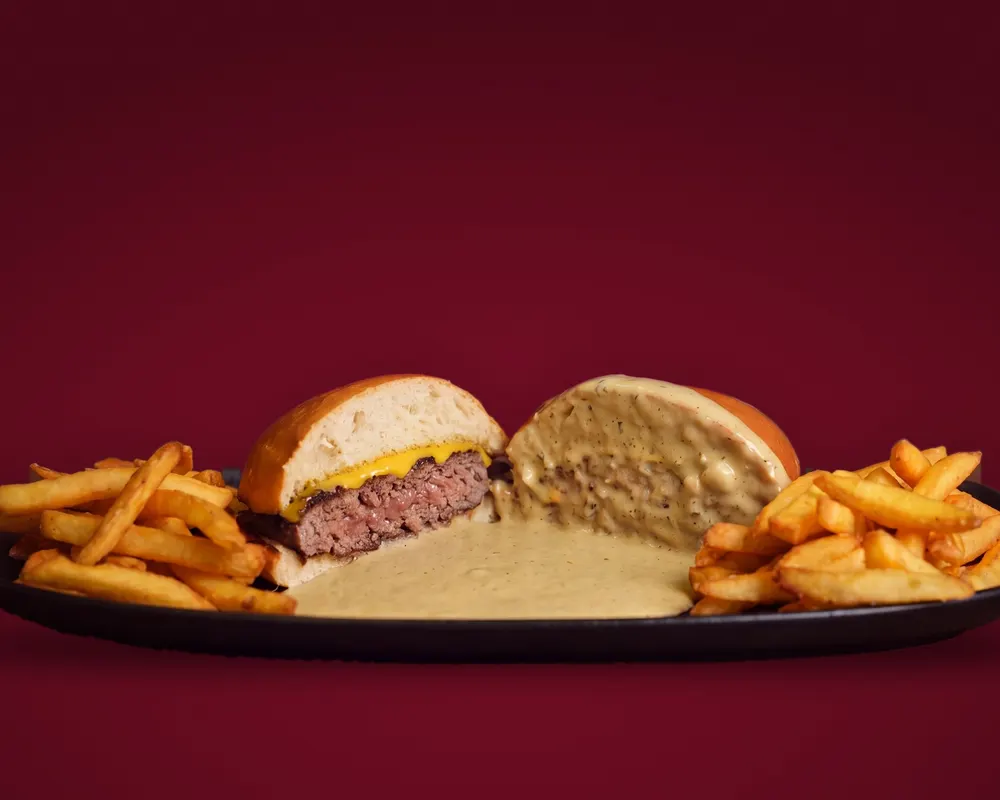
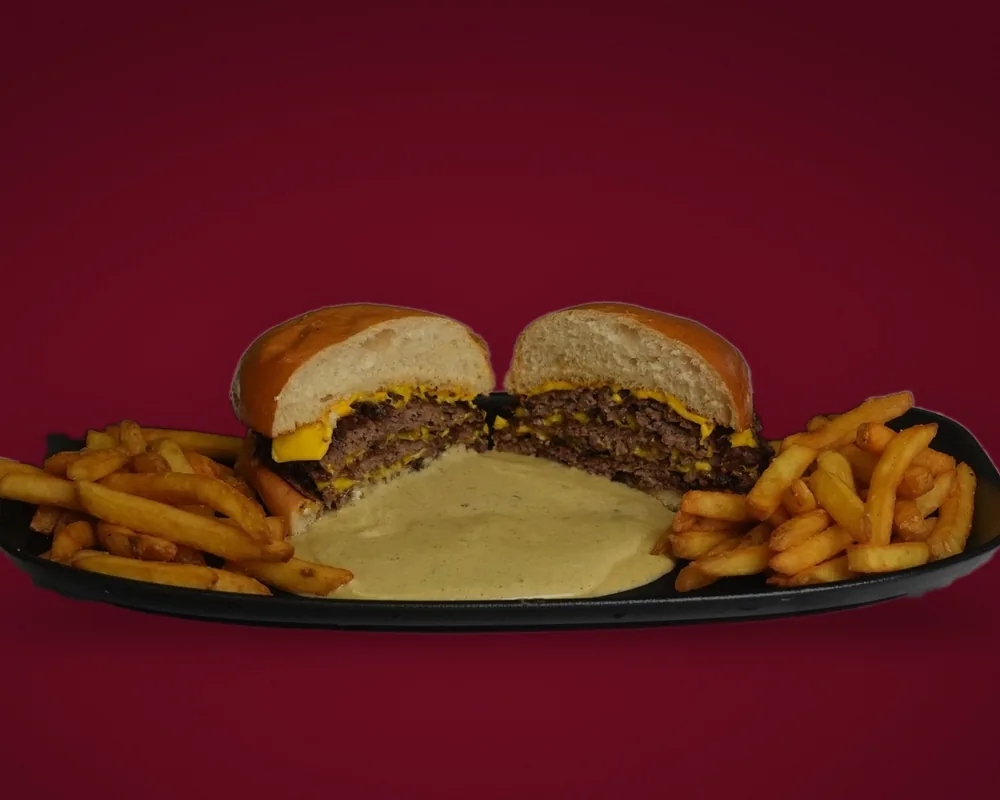
APB site-c : vraies photos du shooting sur fond bordeaux studio (#190)
* Skills : ajoute Hallmark (anti-AI slop, MIT) avec les règles Nouvelle Ardoise

Claude-Session: https://claude.ai/code/session_01GfNPGhMMwHk9JCBVJknyRy

* Démo APB : maquette d'accueil du site final, direction Brasserie claire (noindex)

Claude-Session: https://claude.ai/code/session_01GfNPGhMMwHk9JCBVJknyRy

* Démo APB site-b : ouverture sur le burger coupé dans la sauce, photos en brasserie, histoire officielle et adresses

Claude-Session: https://claude.ai/code/session_01GfNPGhMMwHk9JCBVJknyRy

* Démo APB site-b : Madrid en livraison, 3 lignes éditoriales (?edito=a|b|c), burger dégagé du texte

Claude-Session: https://claude.ai/code/session_01GfNPGhMMwHk9JCBVJknyRy

* Démo APB site-b : édito Rituel, fond Merlot, scroll image par image (63 vraies photos), barre des maisons, pop-up 200 burgers, carte smash/burgers/baguette

Claude-Session: https://claude.ai/code/session_01GfNPGhMMwHk9JCBVJknyRy

* Démo APB site-b : scroll immersif de A à Z (smash, fondu, montage, coupe, sauce), 127 vraies photos

Claude-Session: https://claude.ai/code/session_01GfNPGhMMwHk9JCBVJknyRy

* Démo APB site-b : scroll limité à la coupe (un seul cadrage) avec fondu vers la sauce

Claude-Session: https://claude.ai/code/session_01GfNPGhMMwHk9JCBVJknyRy

* Retire les images de la séquence A à Z

Claude-Session: https://claude.ai/code/session_01GfNPGhMMwHk9JCBVJknyRy

* Démo APB site-b : entrée immersive, caméra du monogramme doré en relief jusqu'au burger dans la sauce
[…]

diff --git a/public/demos/atelier-paris-burger/site-c/index.html b/public/demos/atelier-paris-burger/site-c/index.html
@@ -215,7 +215,7 @@ footer small{display:block;margin-top:26px;font-size:12px;opacity:.78}
 <div class="cta"><a class="btn btn-or" href="../site-b/geneve/">Commander à Genève →</a><a class="btn btn-ligne" href="../site-b/reserver/">Mon burger offert</a></div></div>
 <div class="plats" role="group" aria-label="Nos plats"><button type="button" aria-pressed="true">Burger 160 g</button><button type="button" aria-pressed="false">Smash triple</button><button type="button" aria-pressed="false">Baguette</button></div></div>
 <nav class="villes w" aria-label="Nos villes"><a class="on" href="../site-b/geneve/">Genève<small>Sur place</small></a><a href="#maisons">Madrid<small>En livraison</small></a><a href="#maisons">Ibiza<small>Sur place</small></a></nav></section>
-<section class="carte" id="carte"><div class="w"><div class="tete"><div><h2>La carte <small class="ou">à Genève</small></h2></div><nav class="tabs" aria-label="Catégories"><a class="on" href="#carte">Tout</a><a href="#smash">Smash</a><a href="#burgers">Burgers</a><a href="#baguette">Baguette</a></nav></div><div class="groupe" id="smash"><div class="gt"><h3>Smash</h3><p>Servis avec frites et sauce Café de Paris.</p></div><div class="grid"><article class="card" id="smash-80"><div class="ph"><img src="img/c-smash-80.webp" alt="Smash 80 g, servi avec frites et sauce Café de Paris, sur fond bordeaux" loading="lazy" width="1000" height="800"></div><div class="t"><p class="sub">Simple</p><h3>Smash 80 g</h3><div class="rule"></div><p>Steak smashé sur la plaque, bords croustillants, cheddar fondu.</p><div class="bas"><span>Frites et sauce Café de Paris</span><a class="btn btn-m" href="../site-b/geneve/">Commander</a></div></div></article><article class="card" id="smash-160"><div class="ph"><img src="img/c-smash-160.webp" alt="Smash 160 g, servi avec frites et sauce Café de Paris, sur fond bordeaux" loading="lazy" width="1000" height="800"></div><div class="t"><p class="sub">Double</p><h3>Smash 160 g</h3><div class="rule"></div><p>Steak smashé sur la plaque, bords croustillants, cheddar fondu.</p><div class="bas"><span>Frites et sauce Café de Paris</span><a class="btn btn-m" href="../site-b/geneve/">Commander</a></div></div></article><article class="card" id="smash-240"><div class="ph"><img src="img/c-smash-240.webp" alt="Smash 240 g, servi avec frites et sauce Café de Paris, sur fond bordeaux" loading="lazy" width="1000" height="800"></div><div class="t"><p class="sub">Triple</p><h3>Smash 240 g</h3><div class="rule"></div><p>Steak smashé sur la plaque, bords croustillants, cheddar fondu.</p><div class="bas"><span>Frites et sauce Café de Paris</span><a class="btn btn-m" href="../site-b/geneve/">Commander</a></div></div></article></div></div><div class="groupe" id="burgers"><div class="gt"><h3>Burgers</h3><p>Servis avec frites et sauce Café de Paris.</p></div><div class="grid"><article class="card" id="burger-80"><div class="ph"><img src="img/c-burger-80.webp" alt="Burger 80 g, servi avec frites et sauce Café de Paris, sur fond bordeaux" loading="lazy" width="1000" height="800"></div><div class="t"><h3>Burger 80 g</h3><div class="rule"></div><p>Steak épais, cuisson rosée, cheddar.</p><div class="bas"><span>Frites et sauce Café de Paris</span><a class="btn btn-m" href="../site-b/geneve/">Commander</a></div></div></article><article class="card" id="burger-160"><div class="ph"><img src="img/c-burger-160.webp" alt="Burger 160 g, servi avec frites et sauce Café de Paris, sur fond bordeaux" loading="lazy" width="1000" height="800"></div><div class="t"><h3>Burger 160 g</h3><div class="rule"></div><p>Steak épais, cuisson rosée, cheddar.</p><div class="bas"><span>Frites et sauce Café de Paris</span><a class="btn btn-m" href="../site-b/geneve/">Commander</a></div></div></article><article class="card" id="burger-240"><div class="ph"><img src="img/c-burger-240.webp" alt="Burger 240 g, servi avec frites et sauce Café de Paris, sur fond bordeaux" loading="lazy" width="1000" height="800"></div><div class="t"><h3>Burger 240 g</h3><div class="rule"></div><p>Steak épais, cuisson rosée, cheddar.</p><div class="bas"><span>Frites et sauce Café de Paris</span><a class="btn btn-m" href="../site-b/geneve/">Commander</a></div></div></article></div></div><div class="groupe" id="baguette"><div class="gt"><h3>Baguette</h3><p>Servie sans frites.</p></div><div class="grid"><article class="card" id="baguette"><div class="ph"><img src="img/c-baguette.webp" alt="La baguette, au bœuf, tartinée de sauce Café de Paris, sur fond bordeaux" loading="lazy" width="1000" height="800"></div><div class="t"><p class="sub">Sans frites</p><h3>La baguette</h3><div class="rule"></div><p>Pain tendre, bœuf tranché, tartinée de sauce Café de Paris. Servie seule.</p><div class="bas"><span>Sauce tartinée</span><a class="btn btn-m" href="../site-b/geneve/">Commander</a></div></div></article></div></div></div></section>
+<section class="carte" id="carte"><div class="w"><div class="tete"><div><h2>La carte <small class="ou">à Genève</small></h2></div><nav class="tabs" aria-label="Catégories"><a class="on" href="#carte">Tout</a><a href="#smash">Smash</a><a href="#burgers">Burgers</a><a href="#baguette">Baguette</a></nav></div><div class="groupe" id="smash"><div class="gt"><h3>Smash</h3><p>Servis avec frites et sauce Café de Paris.</p></div><div class="grid"><article class="card" id="smash-80"><div class="ph"><img src="img/c-smash-80.webp" alt="Smash simple, steak smashé et cheddar fondu, photo du shooting sur fond bordeaux" loading="lazy" width="1000" height="800"></div><div class="t"><p class="sub">Simple</p><h3>Smash 80 g</h3><div class="rule"></div><p>Steak smashé sur la plaque, bords croustillants, cheddar fondu.</p><div class="bas"><span>Frites et sauce Café de Paris</span><a class="btn btn-m" href="../site-b/geneve/">Commander</a></div></div></article><article class="card" id="smash-160"><div class="ph"><img src="img/c-smash-160.webp" alt="Smash double, deux steaks smashés et cheddar, photo du shooting sur fond bordeaux" loading="lazy" width="1000" height="800"></div><div class="t"><p class="sub">Double</p><h3>Smash 160 g</h3><div class="rule"></div><p>Steak smashé sur la plaque, bords croustillants, cheddar fondu.</p><div class="bas"><span>Frites et sauce Café de Paris</span><a class="btn btn-m" href="../site-b/geneve/">Commander</a></div></div></article><article class="card" id="smash-240"><div class="ph"><img src="img/c-smash-240.webp" alt="Smash triple, trois steaks smashés et cheddar, sur assiette noire et fond bordeaux" loading="lazy" width="1000" height="800"></div><div class="t"><p class="sub">Triple</p><h3>Smash 240 g</h3><div class="rule"></div><p>Steak smashé sur la plaque, bords croustillants, cheddar fondu.</p><div class="bas"><span>Frites et sauce Café de Paris</span><a class="btn btn-m" href="../site-b/geneve/">Commander</a></div></div></article></div></div><div class="groupe" id="burgers"><div class="gt"><h3>Burgers</h3><p>Servis avec frites et sauce Café de Paris.</p></div><div class="grid"><article class="card" id="burger-80"><div class="ph"><img src="img/c-burger-80.webp" alt="Burger coupé en deux, frites et sauce Café de Paris, vu de face sur fond bordeaux" loading="lazy" width="1000" height="800"></div><div class="t"><h3>Burger 80 g</h3><div class="rule"></div><p>Steak épais, cuisson rosée, cheddar.</p><div class="bas"><span>Frites et sauce Café de Paris</span><a class="btn btn-m" href="../site-b/geneve/">Commander</a></div></div></article><article class="card" id="burger-160"><div class="ph"><img src="img/c-burger-160.webp" alt="Burger coupé, frites et sauce Café de Paris sur assiette noire, vu de dessus" loading="lazy" width="1000" height="800"></div><div class="t"><h3>Burger 160 g</h3><div class="rule"></div><p>Steak épais, cuisson rosée, cheddar.</p><div class="bas"><span>Frites et sauce Café de Paris</span><a class="btn btn-m" href="../site-b/geneve/">Commander</a></div></div></article><article class="card" id="burger-240"><div class="ph"><img src="img/c-burger-240.webp" alt="Gros plan sur un burger coupé, steak épais et cheddar, nappé de sauce Café de Paris" loading="lazy" width="1000" height="800"></div><div class="t"><h3>Burger 240 g</h3><div class="rule"></div><p>Steak épais, cuisson rosée, cheddar.</p><div class="bas"><span>Frites et sauce Café de Paris</span><a class="btn btn-m" href="../site-b/geneve/">Commander</a></div></div></article></div></div><div class="groupe" id="baguette"><div class="gt"><h3>Baguette</h3><p>Servie sans frites.</p></div><div class="grid"><article class="card" id="baguette"><div class="ph"><img src="img/c-baguette.webp" alt="La baguette au bœuf, tartinée de sauce Café de Paris, sur fond bordeaux" loading="lazy" width="1000" height="800"></div><div class="t"><p class="sub">Sans frites</p><h3>La baguette</h3><div class="rule"></div><p>Pain tendre, bœuf tranché, tartinée de sauce Café de Paris. Servie seule.</p><div class="bas"><span>Sauce tartinée</span><a class="btn btn-m" href="../site-b/geneve/">Commander</a></div></div></article></div></div></div></section>
 <section class="geste" aria-labelledby="geste-t"><div class="w in"><div><span class="caps eye" style="color:var(--orc)">Le geste</span><h2 id="geste-t">Trois temps, <em>une seule sauce.</em></h2><p class="lead">En cuisine : le bœuf smashé sur la plaque, le cheddar, la coupe au couteau, puis servi avec la sauce Café de Paris.</p>
 <ol class="mots" aria-hidden="true"><li data-t="0" class="on">Smashé.</li><li data-t="4">Coupé.</li><li data-t="6.76">Trempé.</li></ol></div>
 <div class="film"><video id="film" src="film.mp4" poster="img/film-poster.jpg" muted playsinline loop preload="none" aria-label="Photos du tournage en cuisine : le smash, le cheddar, la coupe, le burger posé dans la sauce"></video><button class="pause" type="button" aria-label="Mettre en pause"><svg aria-hidden="true" width="14" height="14" viewBox="0 0 14 14"><path d="M3 2h3v10H3zM8 2h3v10H8z" fill="currentColor"/></svg></button></div></div></section>
